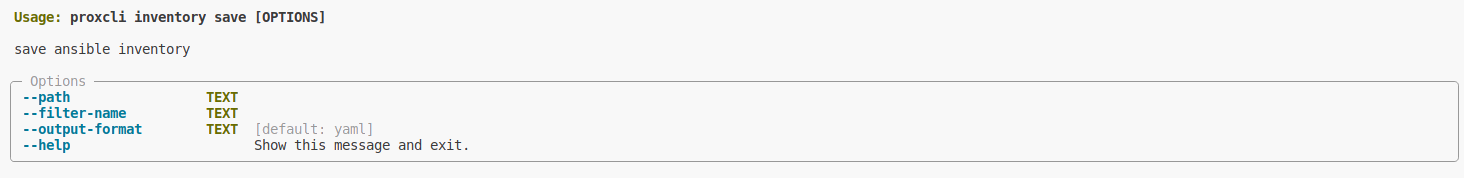
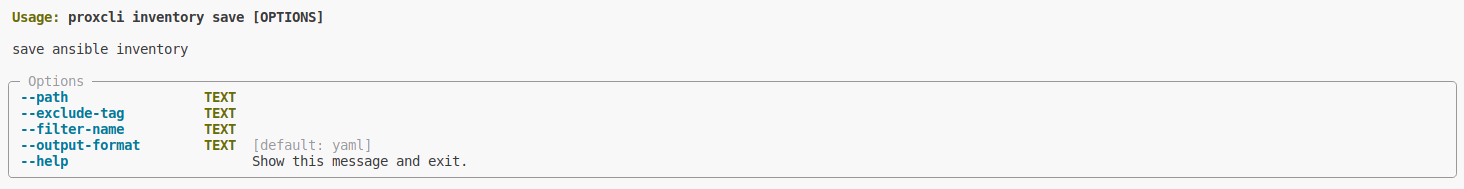
Add documentation for inventory commands

Changed region(s): [[0.0, 0.3933, 1.0, 0.9551], [0.0, 0.0562, 0.2459, 0.1404], [0.0, 0.2247, 0.1537, 0.309]]

diff --git a/content/commands/inventory/create/_index.md b/content/commands/inventory/create/_index.md
@@ -1,23 +1,31 @@
 ---
-title: "Create proxcli inventory file"
+title: "Save proxcli inventory file"
 weight: 2 
 menuTitle: "Create"
 ---
 
 
-![](/images/proxcli_inventory_create_help.png)
+![](/images/proxcli_inventory_save_help.png)
 
 ## Options
 
 |option|description|Allowed values|
 |---|---|---|
-
+|exclude-tags|a list of coma separated tags to be excluded from the ansible inventory file|string|
+|filter-name|a regex applied on host names so only matching host names will be saved in the ansible inventory file|string|
+|output-format|one of json or yaml|string|
+|path|full path of the ansible inventory file|string|
 
 ## Examples
 
-- Create a proxmox inventory file
+- save a proxmox inventory file in yaml format
 
 ```bash
-proxcli inventory create
+proxcli inventory create --path ./inventory.yaml
 ```
 
+- save a proxmox inventory file in yaml format with host names matching regex "^test"
+
+```bash
+proxcli inventory create --path ./inventory.yaml --filter-name "^test"
+```

diff --git a/content/commands/inventory/show/_index.md b/content/commands/inventory/show/_index.md
@@ -12,7 +12,7 @@ weight: 1
 |---|---|---|
 |filter-name|filter inventory by a regex applyed on virtual machines names|string|
 |exclude-tag|exclude tags from inventory. Comma separated list of tags|string|
-|output-format|output format is one of (table, json, yaml)|string|
+|output-format|output format is one of (json, yaml)|string|
 
 ## Examples
 
